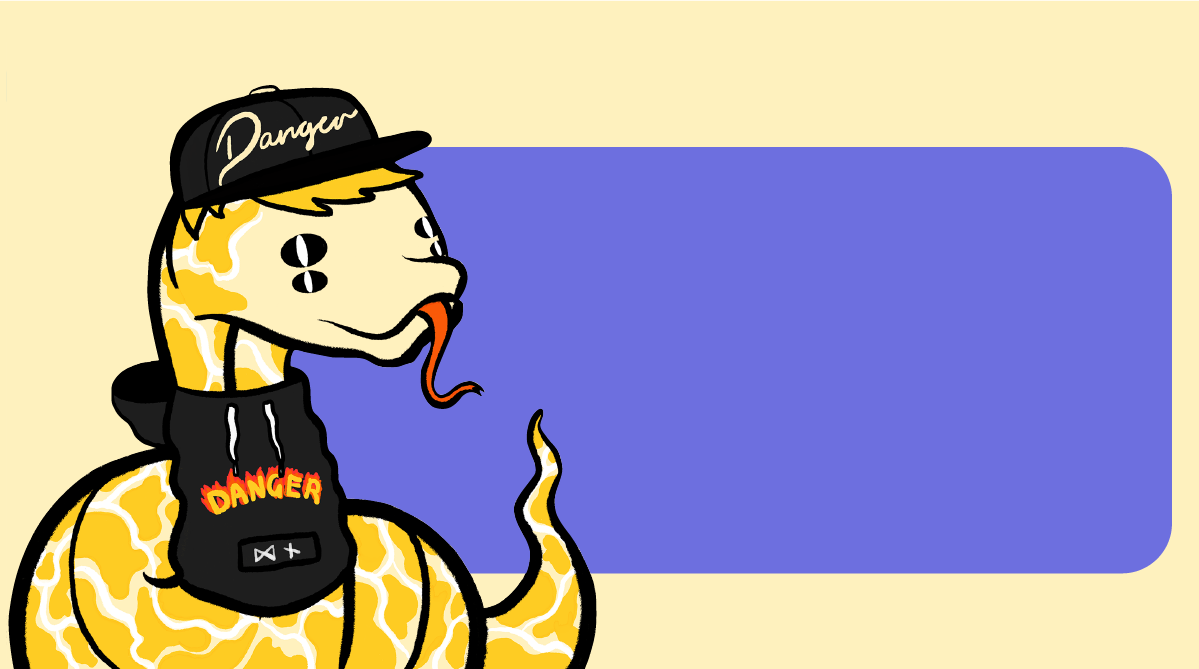
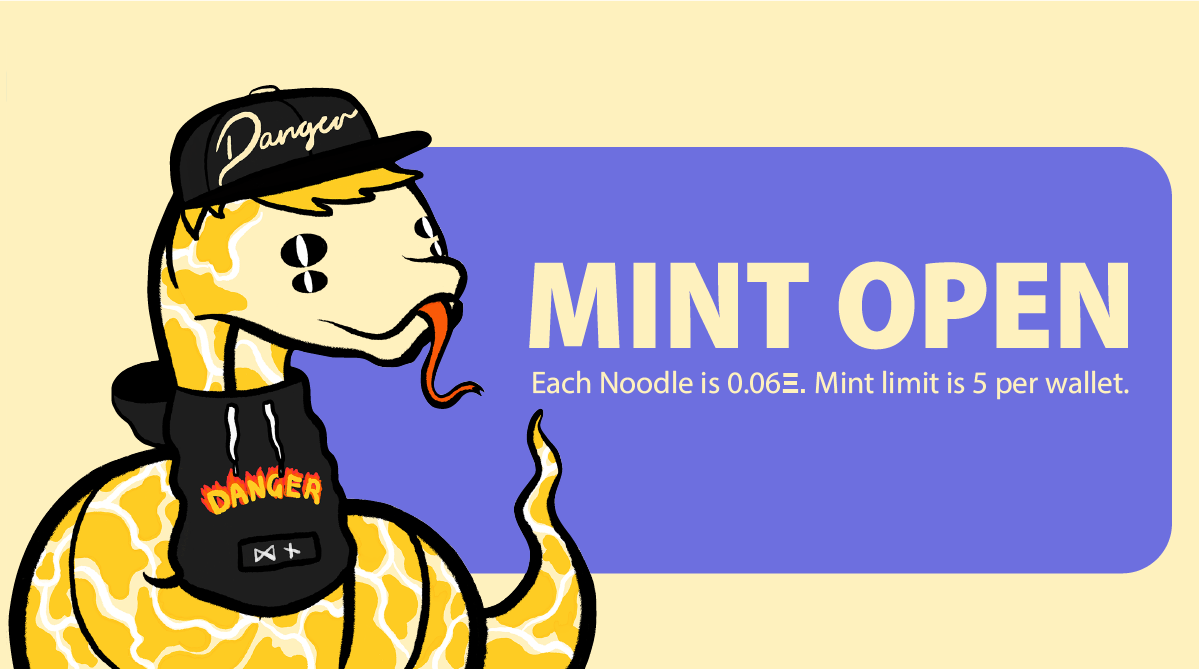
Feat: new minter background changes

Changed region(s): [[0.432, 0.3886, 0.9566, 0.5979]]

diff --git a/src/components/Dapp/Minter.js b/src/components/Dapp/Minter.js
@@ -1,33 +1,13 @@
+import "../../css/minter.css";
 import "../../css/App.css";
-import styled from "styled-components";
-import { ethers } from "ethers";
-import logo from "../../imgs/Logo2.png";
-import axios from "axios";
-import Web3 from "web3";
-import React, { useEffect, useState } from "react";
-import * as card from "../../css/Styles";
+import { MDBBtn } from 'mdb-react-ui-kit'
+
 
 function Minter() {
     return (
         <div dappContainer>
-            <card.card>
-                    <card.Container flex={1} ai={"center"} justifyContent={"center"}>
-                        <card.Title>MINT HERE</card.Title>
-                        <card.Description>Each Noodle is 0.06Ξ. Mint limit is 5 per wallet.</card.Description>
-                        <card.SpacerSmall />
-                        <button
-                            onClick={(e) => {
-                                e.preventDefault();
-                            }}
-                            className="mintButton"
-                        >
-                            CONNECT
-                        </button>
-                        <card.SpacerSmall />
-                    </card.Container>
-            </card.card>
-
-        </div>
+            <MDBBtn className='mx-4 mintButton' color='danger'>Begin Minting</MDBBtn>
+        </div >
     )
 }
 

diff --git a/src/css/minter.css b/src/css/minter.css
@@ -1,0 +1,51 @@
+
+
+  @media screen and (min-width: 2200px) {
+    .mintButton{
+      font-size: 40px;
+      width: 170px;
+      height: 60px;
+      font-family: "Fredoka One", cursive;
+      position: relative;
+      top: 120px;
+      right: 100px;
+    }
+  }
+
+    @media screen and (min-width: 2000px) and (max-width: 2200px) {
+        .mintButton{
+            font-size: 40px;
+            width: 170px;
+            height: 60px;;
+        font-family: "Fredoka One", cursive;
+        position: relative;
+        top: 100px;
+        right: 60px;
+        }
+    }
+
+    @media screen and (min-width: 1300px) and (max-width: 2000px) {
+        .mintButton{
+            font-size: 40px;
+            width: 170px;
+            height: 60px;
+        font-family: "Fredoka One", cursive;
+        position: relative;
+        top: 180px;
+        right: 30px;
+        }
+    }
+
+    @media screen and (min-width: 1000px) and (max-width: 1300px) {
+        .mintButton{
+            font-size: 40px;
+            width: 150px;
+            height: 40px;
+        font-family: "Fredoka One", cursive;
+        position: relative;
+        top: 180px;
+        right: 60px;
+        }
+    }
+
+    

diff --git a/src/css/welcome.css b/src/css/welcome.css
@@ -44,9 +44,9 @@
     background-repeat: no-repeat;
     background-color: #FEF1BE;
     background-position: center;
-    background-position-y: 110%;
+    background-position-y: 100%;
     background-position-x: 20%;
-    background-size: 80%;
+    background-size: 100%;
     aspect-ratio: auto;
     position: static;
     padding-top: 10%;
@@ -109,7 +109,7 @@
     background-repeat: no-repeat;
     background-color: #FEF1BE;
     background-position: center;
-    background-position-y: 110%;
+    background-position-y: 100%;
     padding-top: 0%;
     aspect-ratio: auto;
     position: static;

diff --git a/src/css/App.css b/src/css/App.css
@@ -22,7 +22,7 @@ h1 {
 }
 
 .App-header {
-  min-height: 70vh;
+  min-height: 60vh;
   display: flex;
   flex-direction: column;
   align-items: center;
@@ -47,19 +47,7 @@ h1 {
   width: 400px;
   border-radius: 25px;
   filter: drop-shadow(0 0 0.55rem #002741);
-}
 
-.mintButton{
-  color: white;
-  background-color: #1C1C1C;
-  outline: white;
-  border: white;
-  border-radius: 15px;
-  font-size: 20px;
-  color: #FEF1BE;
-  width: 150px;
-  height: 50px;
-  font-family: "Fredoka One", cursive;
 }
 
 @keyframes App-logo-spin {

diff --git a/src/components/welcome.js b/src/components/welcome.js
@@ -1,12 +1,7 @@
-import logo from '../imgs/Logo3.png'
 import '../css/welcome.css';
-import Timer from '../components/Timer';
-import Dapp from '../dapp.js'
 import Minter from '../components/Dapp/Minter';
 
 function welcome() {
-
-    <Timer launchDate='November, 21, 2021'></Timer>
     return (
         <div className='mint'>
             <div className="App">
